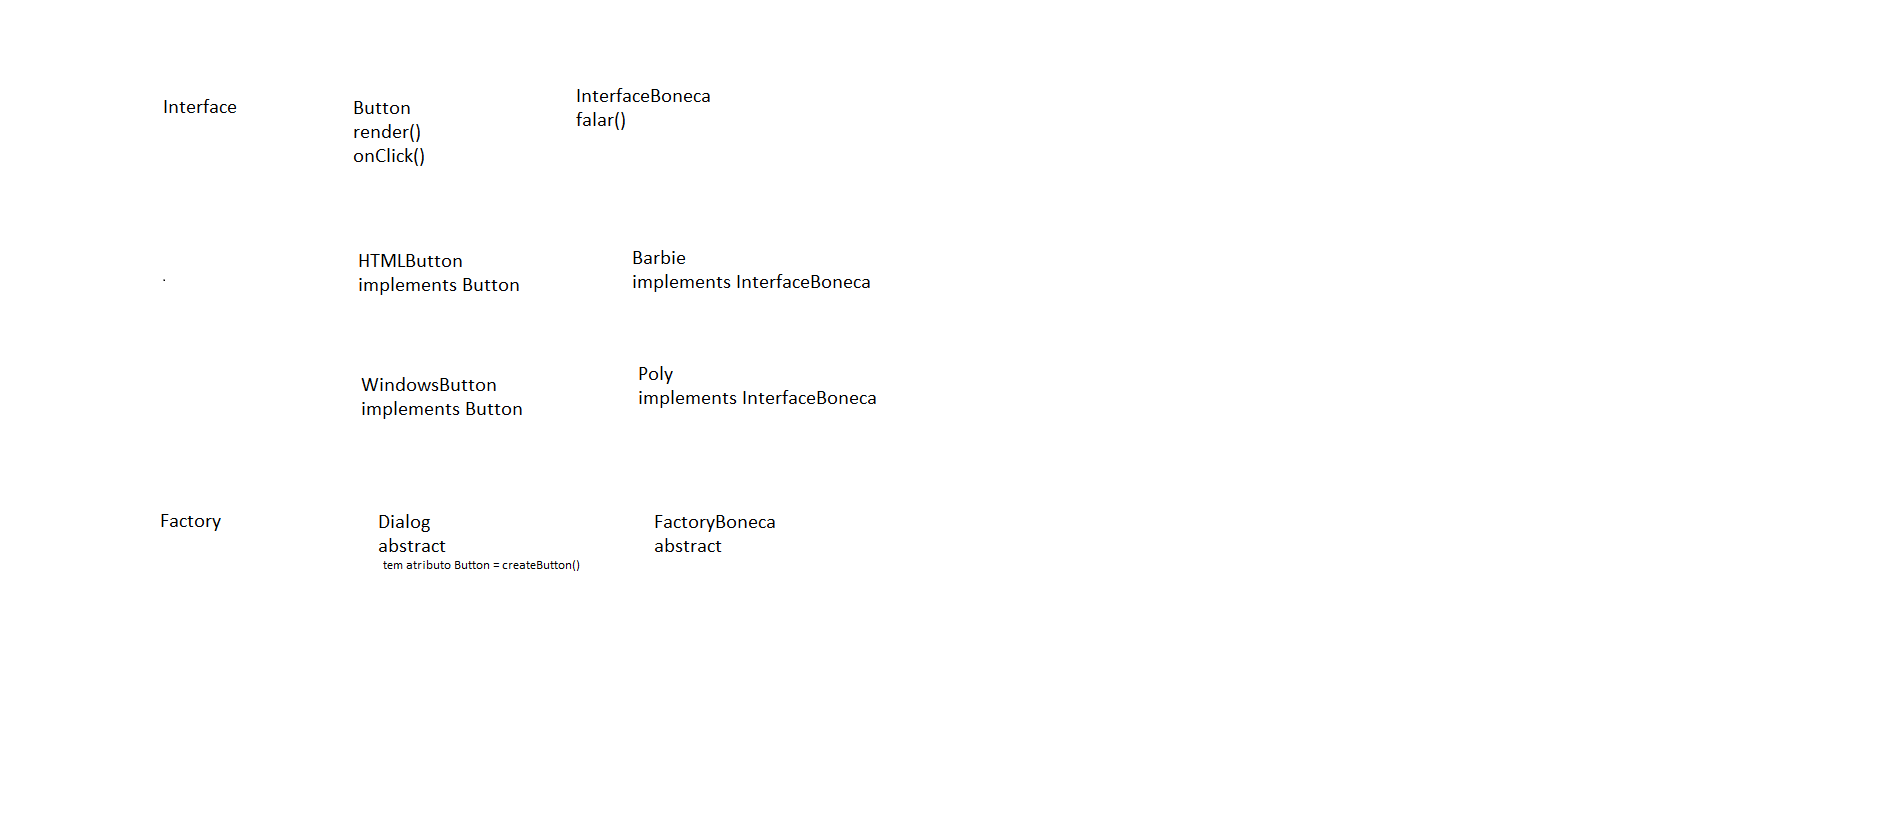
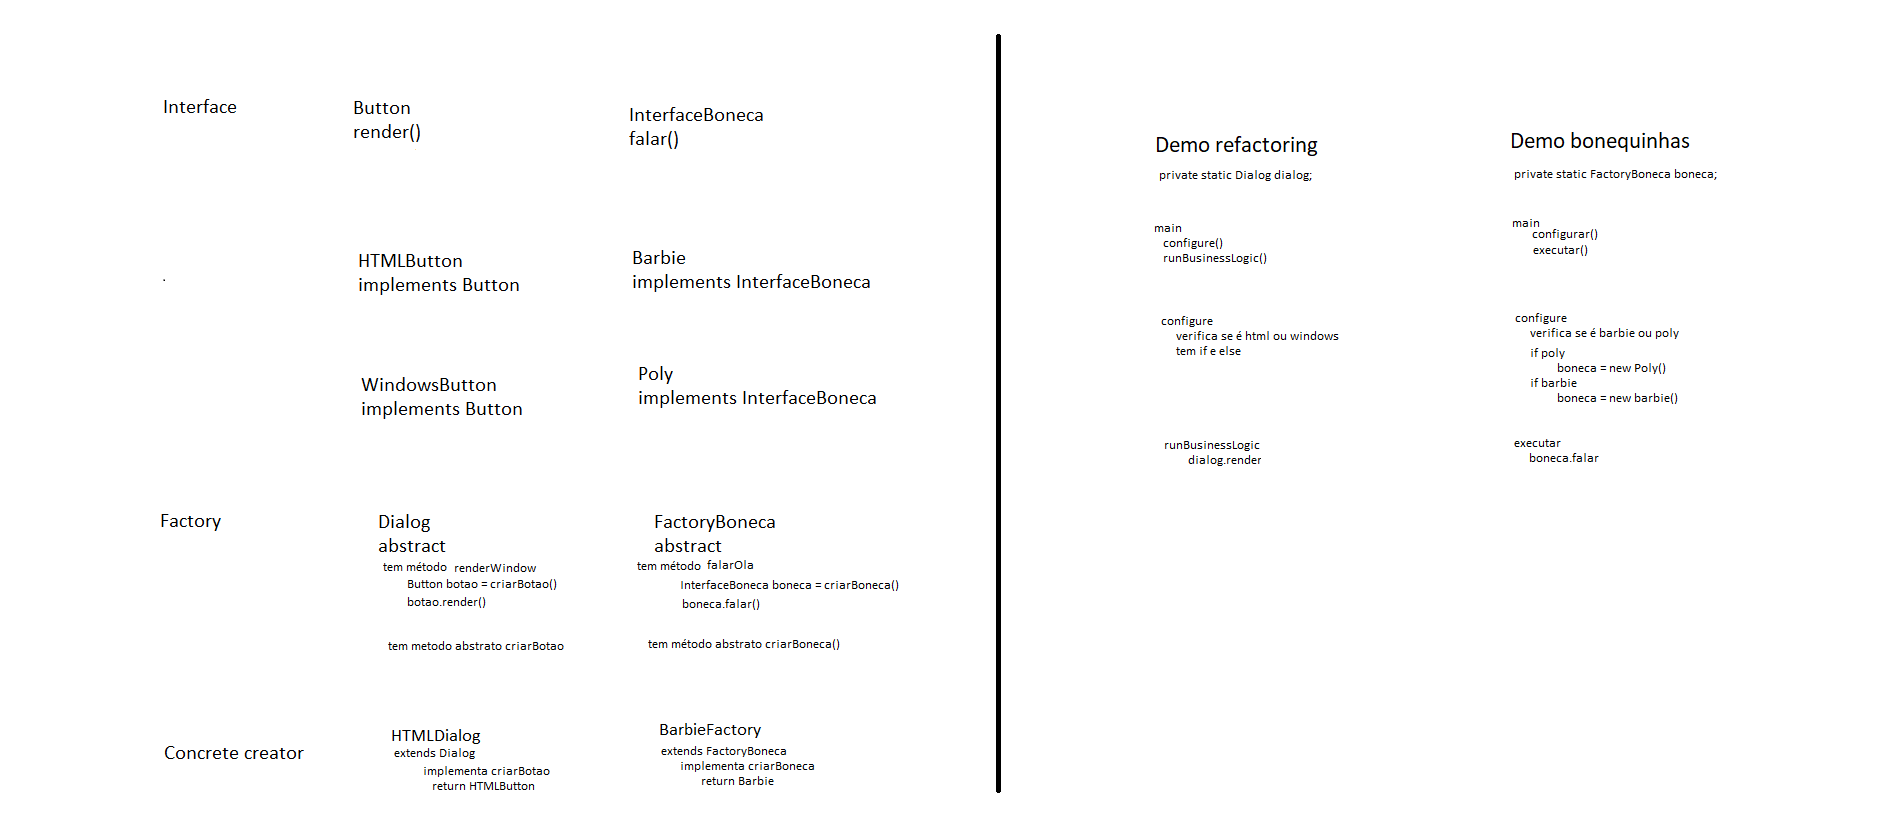
Factory finally

diff --git a/src/main/java/br/com/janaina/estudando/padraoDeProjeto/Bfactory/Main.java b/src/main/java/br/com/janaina/estudando/padraoDeProjeto/Bfactory/Main.java
@@ -13,14 +13,14 @@ public class Main {
 		Integer opcao = scanner.nextInt();
 		
 		if(opcao.equals(1)) {
-			//boneca = new Barbie();
+			boneca = new FactoryBarbie(); 
 		}
 		else if(opcao.equals(2)) {
-			//boneca = new Poly();
+			boneca = new FactoryPoly(); 
 		}
 		
 		System.out.println();
-	//	boneca.falar();
+		boneca.falarOla();
 		System.out.println();
 		
 	}

diff --git a/src/main/java/br/com/janaina/estudando/padraoDeProjeto/Bfactory/FactoryBarbie.java b/src/main/java/br/com/janaina/estudando/padraoDeProjeto/Bfactory/FactoryBarbie.java
@@ -1,10 +1,10 @@
 package br.com.janaina.estudando.padraoDeProjeto.Bfactory;
 
-public class SetorPoly extends FactoryBoneca{
+public class FactoryBarbie extends FactoryBoneca {
 
 	@Override
 	public InterfaceBoneca criarBoneca() {
-		return new Poly();
+		return new Barbie();
 	}
 
 }

diff --git a/src/main/java/br/com/janaina/estudando/padraoDeProjeto/Bfactory/FactoryPoly.java b/src/main/java/br/com/janaina/estudando/padraoDeProjeto/Bfactory/FactoryPoly.java
@@ -1,10 +1,10 @@
 package br.com.janaina.estudando.padraoDeProjeto.Bfactory;
 
-public class SetorBarbie extends FactoryBoneca {
+public class FactoryPoly extends FactoryBoneca{
 
 	@Override
 	public InterfaceBoneca criarBoneca() {
-		return new Barbie();
+		return new Poly();
 	}
 
 }

diff --git a/src/main/java/br/com/janaina/estudando/padraoDeProjeto/Bfactory/FactoryBoneca.java b/src/main/java/br/com/janaina/estudando/padraoDeProjeto/Bfactory/FactoryBoneca.java
@@ -1,5 +1,10 @@
 package br.com.janaina.estudando.padraoDeProjeto.Bfactory;
 
 public abstract class FactoryBoneca {
+	public void falarOla() {
+		InterfaceBoneca boneca = criarBoneca();
+		boneca.falar();
+	}
+	
 	public abstract InterfaceBoneca criarBoneca();
 }

diff --git a/src/main/java/br/com/janaina/estudando/padraoDeProjeto/Bfactory/Barbie.java b/src/main/java/br/com/janaina/estudando/padraoDeProjeto/Bfactory/Barbie.java
@@ -4,6 +4,5 @@ public class Barbie implements InterfaceBoneca {
 	@Override
 	public void falar() {
 		System.out.println("Olá, eu sou a Barbie!");
-		
 	}
 }
